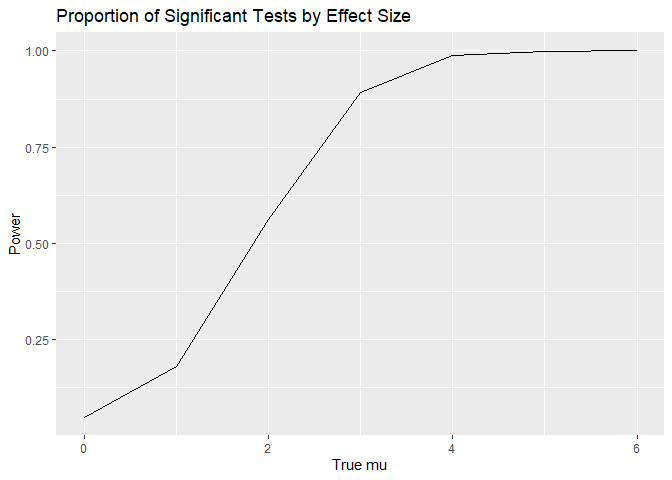
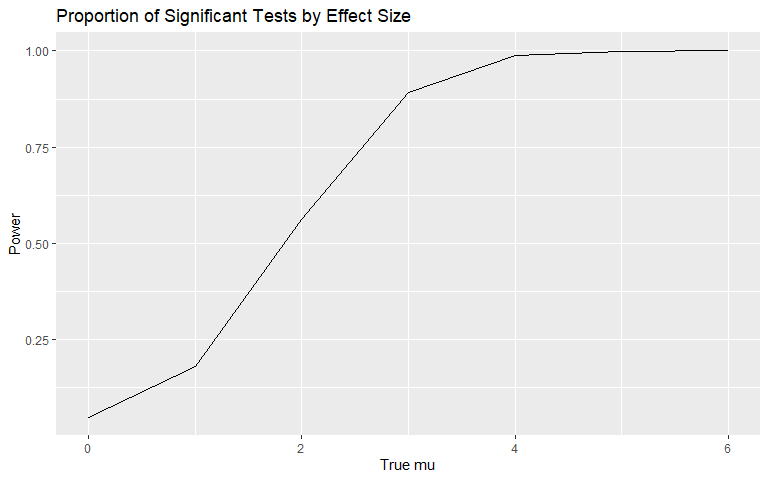
problem 3 complete

diff --git a/p8105_hw5_ss7332.md b/p8105_hw5_ss7332.md
@@ -5,6 +5,9 @@ Sean Sorek
 
 # Problem 2
 
+The instructions for this question are ambiguous. I interpreted the
+simulation as testing $H: \mu = 0$ for all possible values of $\mu$.
+
 ``` r
 sim_normal = function(n, mu, sigma = 5) {
   
@@ -38,26 +41,127 @@ sim |>
        title = "Proportion of Significant Tests by Effect Size")
 ```
 
-![](p8105_hw5_ss7332_files/figure-gfm/unnamed-chunk-1-1.png)<!-- -->
+<img src="p8105_hw5_ss7332_files/figure-gfm/unnamed-chunk-1-1.png" style="display: block; margin: auto;" />
+
+As the effect size grows, the power of the test increases dramatically.
+It eventually plateaus near 1 for an effect size of four or greater.
 
 ``` r
-par(mfrow = c(1,2))
-sim |>
+p1 <- sim |>
   group_by(mu) |>
   summarise(estimate = mean(mu_hat)) |>
-  ggplot(aes(x = mu, y = estimate)) + geom_line()
-```
-
-![](p8105_hw5_ss7332_files/figure-gfm/unnamed-chunk-1-2.png)<!-- -->
-
-``` r
-sim |>
+  ggplot(aes(x = mu, y = estimate)) + geom_line() +
+  geom_abline(slope = 1, intercept = 0,
+              colour = "red", linetype = "dashed") +
+  labs(x = "True mu", y = "Estimated mu",
+       title = "Estimated vs True mu")
+p2 <- sim |>
   filter(p <= .05) |>
   group_by(mu) |>
   summarise(estimate = mean(mu_hat)) |>
-  ggplot(aes(x = mu, y = estimate)) + geom_line()
+  ggplot(aes(x = mu, y = estimate)) + geom_line() +
+  geom_abline(slope = 1, intercept = 0,
+              colour = "red", linetype = "dashed") +
+  labs(x = "True mu", y = "Estimated mu",
+       title = "Estimated vs True mu When Null Rejected")
+gridExtra::grid.arrange(p1,p2, ncol = 2)
 ```
 
-![](p8105_hw5_ss7332_files/figure-gfm/unnamed-chunk-1-3.png)<!-- -->
+<img src="p8105_hw5_ss7332_files/figure-gfm/unnamed-chunk-2-1.png" style="display: block; margin: auto;" />
+
+The sample average across tests for which the null was rejected
+approximate the true value of $\mu$ for all tested values except when
+$\mu = 1$ or 2. For $\mu = 0$, we should not expect a bias for extreme
+values of $\hat\mu$ since the sampling distribution is symmetrically
+centered at 0. When $\mu > 2$, the estimate approximates the true value
+since most tests reject the null. The only values where there are enough
+non-rejected tests to induce a visible bias and a true sampling
+distribution not centered at 0 are $\mu = 1,2$.
 
 # Problem 3
+
+``` r
+homicide <- read_csv("data/homicide-data.csv") |>
+  mutate(
+    reported_date = lubridate::ymd(reported_date),
+    city_state = stringr::str_c(city, state, sep = ", ")
+  ) |> glimpse()
+```
+
+    Rows: 52,179
+    Columns: 13
+    $ uid           <chr> "Alb-000001", "Alb-000002", "Alb-000003", "Alb-000004", …
+    $ reported_date <date> 2010-05-04, 2010-02-16, 2010-06-01, 2010-01-01, 2010-01…
+    $ victim_last   <chr> "GARCIA", "MONTOYA", "SATTERFIELD", "MENDIOLA", "MULA", …
+    $ victim_first  <chr> "JUAN", "CAMERON", "VIVIANA", "CARLOS", "VIVIAN", "GERAL…
+    $ victim_race   <chr> "Hispanic", "Hispanic", "White", "Hispanic", "White", "W…
+    $ victim_age    <chr> "78", "17", "15", "32", "72", "91", "52", "52", "56", "4…
+    $ victim_sex    <chr> "Male", "Male", "Female", "Male", "Female", "Female", "M…
+    $ city          <chr> "Albuquerque", "Albuquerque", "Albuquerque", "Albuquerqu…
+    $ state         <chr> "NM", "NM", "NM", "NM", "NM", "NM", "NM", "NM", "NM", "N…
+    $ lat           <dbl> 35.09579, 35.05681, 35.08609, 35.07849, 35.13036, 35.151…
+    $ lon           <dbl> -106.5386, -106.7153, -106.6956, -106.5561, -106.5810, -…
+    $ disposition   <chr> "Closed without arrest", "Closed by arrest", "Closed wit…
+    $ city_state    <chr> "Albuquerque, NM", "Albuquerque, NM", "Albuquerque, NM",…
+
+The `homicide` dataset contains personal and locational data about 52179
+homicide victims between 2007-01-01 and 2017-12-31. It describes the
+victim’s name, race, age, and sex. It also shows in what city, state,
+latitude, and longitude the crime occurred.
+
+``` r
+homicide |>
+  mutate(
+    unsolved = map_lgl(
+      disposition,
+      \(i) str_detect(i, "Closed without arrest") ||
+        str_detect(i, "Open/No arrest")
+      )
+    ) |>
+  group_by(city_state) |>
+  summarise(total_murders = n(),
+            unsolved_murders = sum(unsolved)) |>
+  filter(city_state == "Baltimore, MD") |>
+  mutate(
+    test_result <- prop.test(unsolved_murders, total_murders) |> broom::tidy()
+  ) |>
+  select(estimate, conf.low, conf.high)
+```
+
+    # A tibble: 1 × 3
+      estimate conf.low conf.high
+         <dbl>    <dbl>     <dbl>
+    1    0.646    0.628     0.663
+
+``` r
+homicide |>
+  mutate(
+    unsolved = map_lgl(
+      disposition,
+      \(i) str_detect(i, "Closed without arrest") ||
+        str_detect(i, "Open/No arrest")
+      )
+    ) |>
+  group_by(city_state) |>
+  summarise(total_murders = n(),
+            unsolved_murders = sum(unsolved)) |>
+  mutate(
+    test_result = map2(unsolved_murders, total_murders, \(x, y) prop.test(x, y) |> broom::tidy())
+  ) |> unnest(test_result) |>
+  select(city_state, total_murders, unsolved_murders, estimate, conf.low, conf.high) |>
+  arrange(desc(estimate)) |>
+  mutate(
+    city_state = as.factor(city_state),
+    city_state = fct_reorder(city_state, estimate, .desc = T)
+  ) |>
+  ggplot(aes(x = city_state, y = estimate)) +
+  geom_point() +
+  geom_errorbar(aes(ymin = conf.low, ymax = conf.high)) + 
+  theme_bw() +
+  theme(axis.text.x = element_text(angle = -90, hjust=0)) +
+  labs(x = "City", 
+       y = "Proportion of Unsolved Murders",
+       title = "Prop. Unsolved Murders by City")
+```
+
+<img src="p8105_hw5_ss7332_files/figure-gfm/unnamed-chunk-4-1.png" style="display: block; margin: auto;" />
